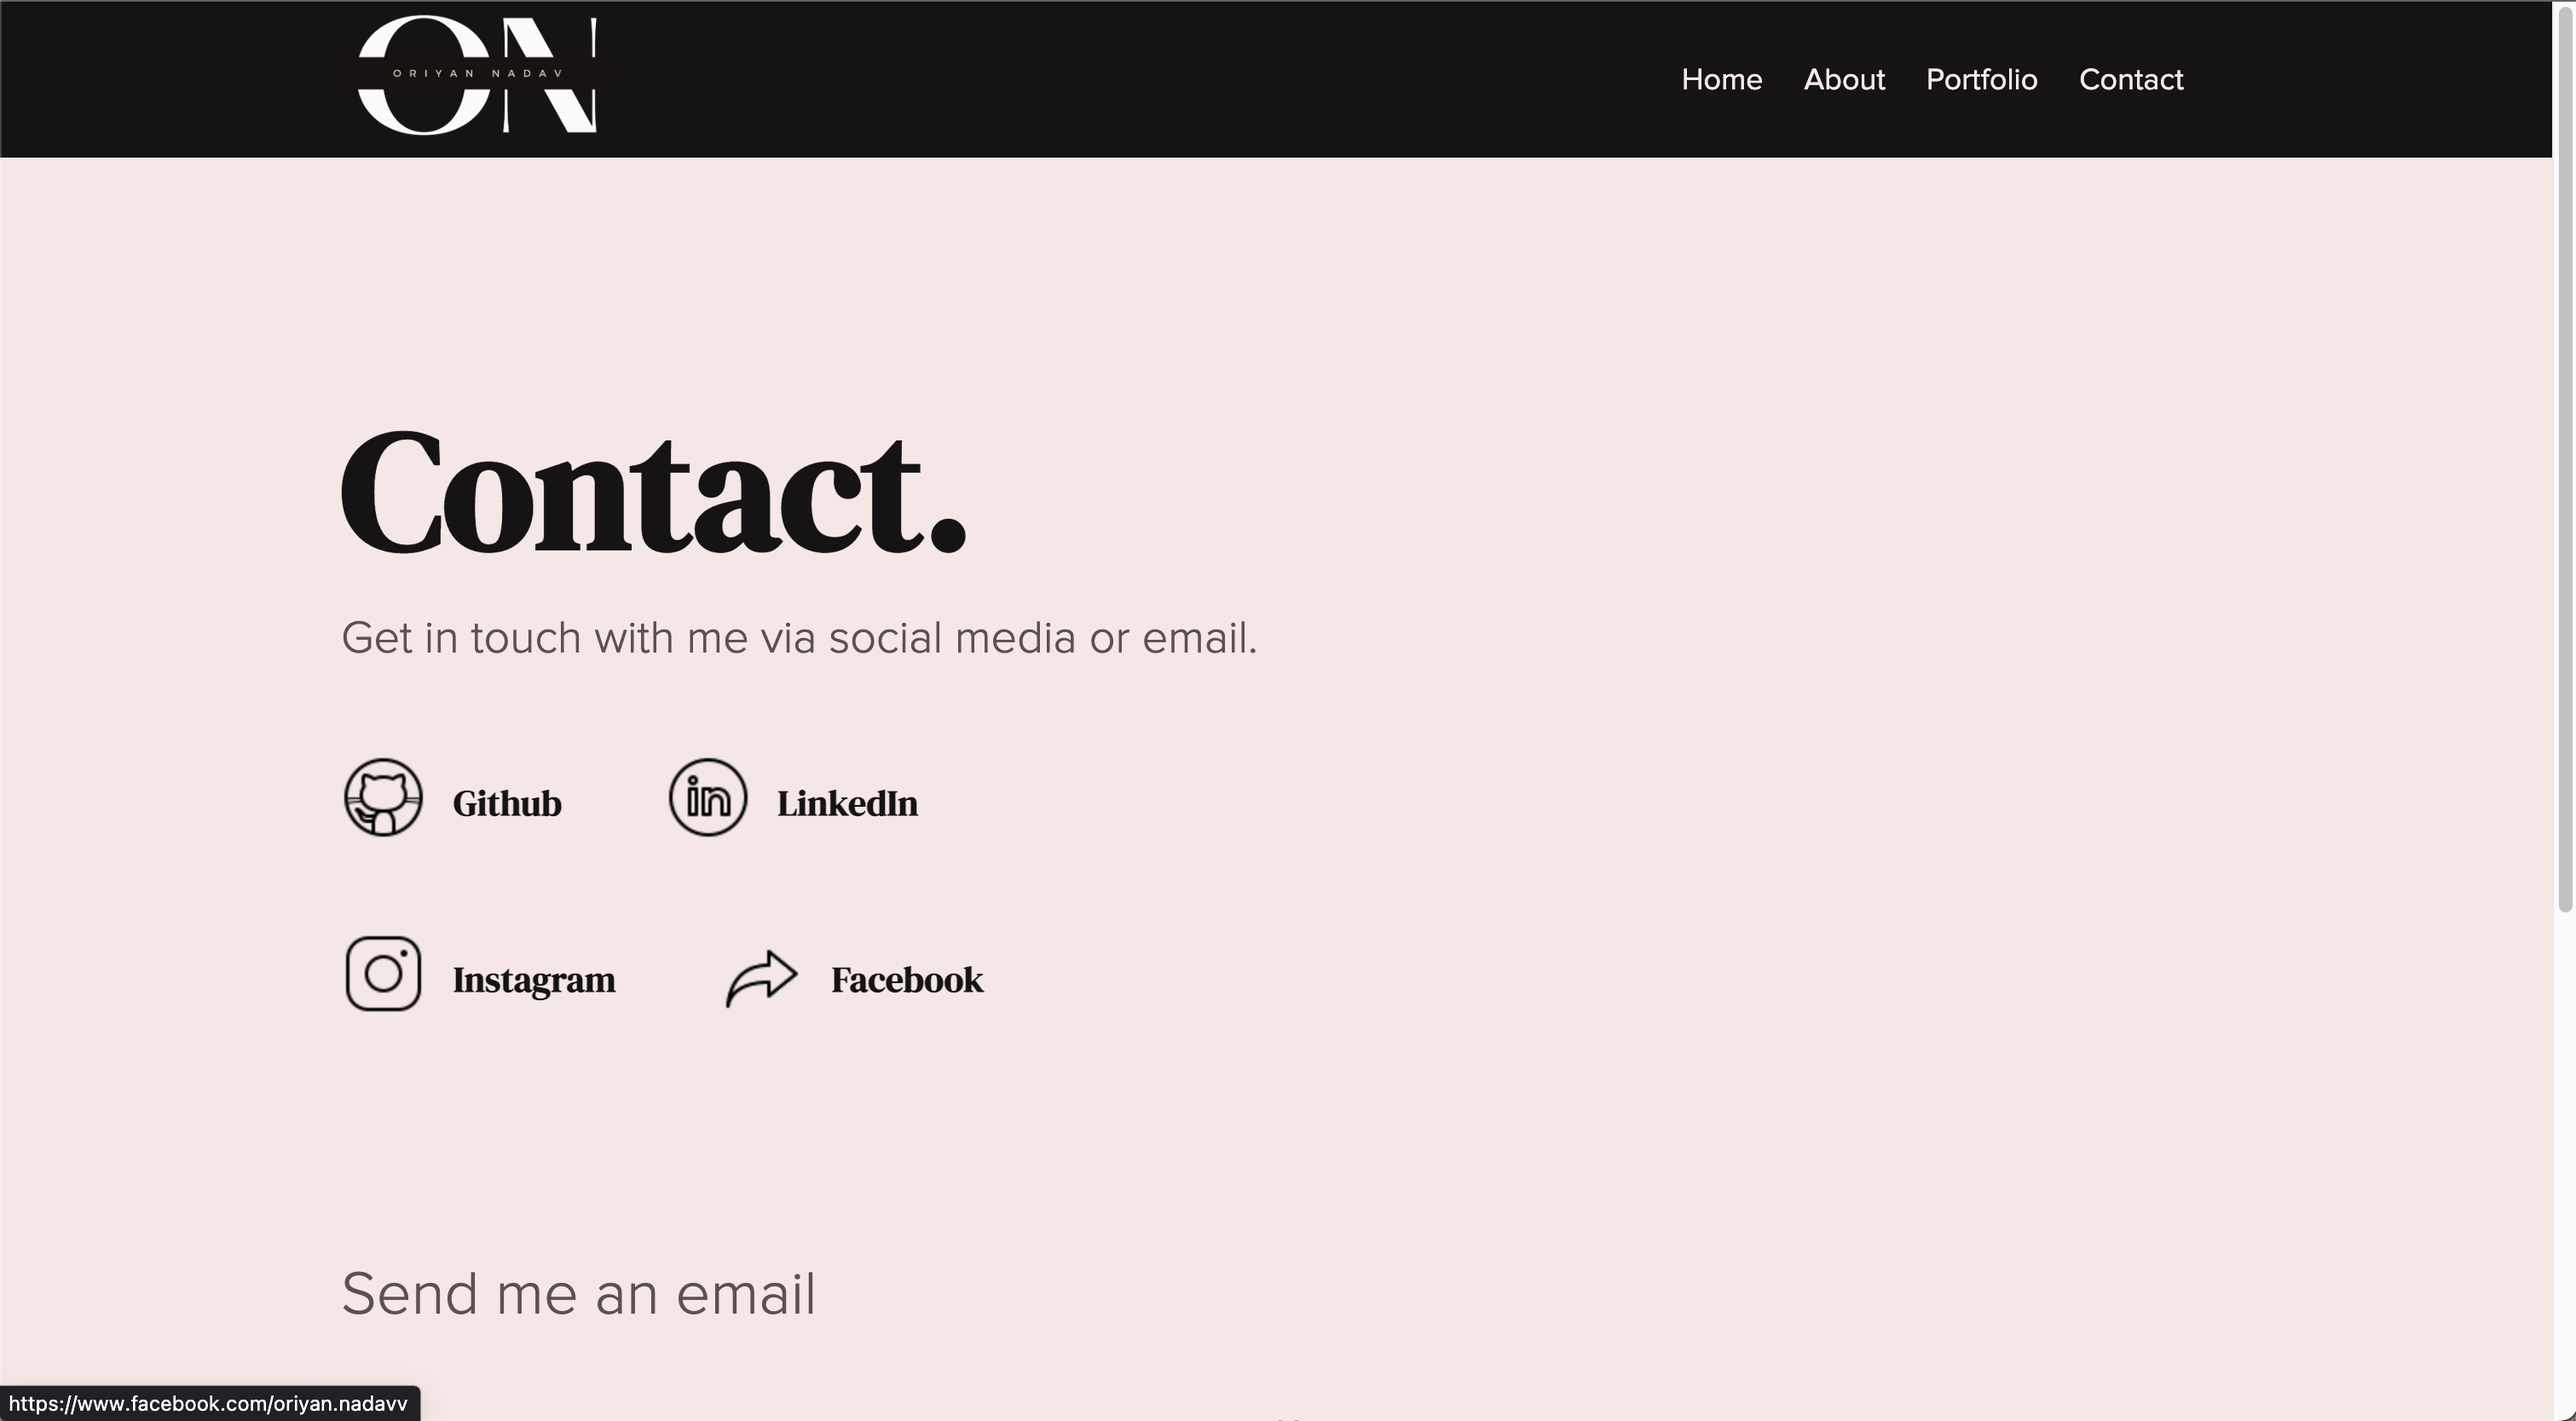
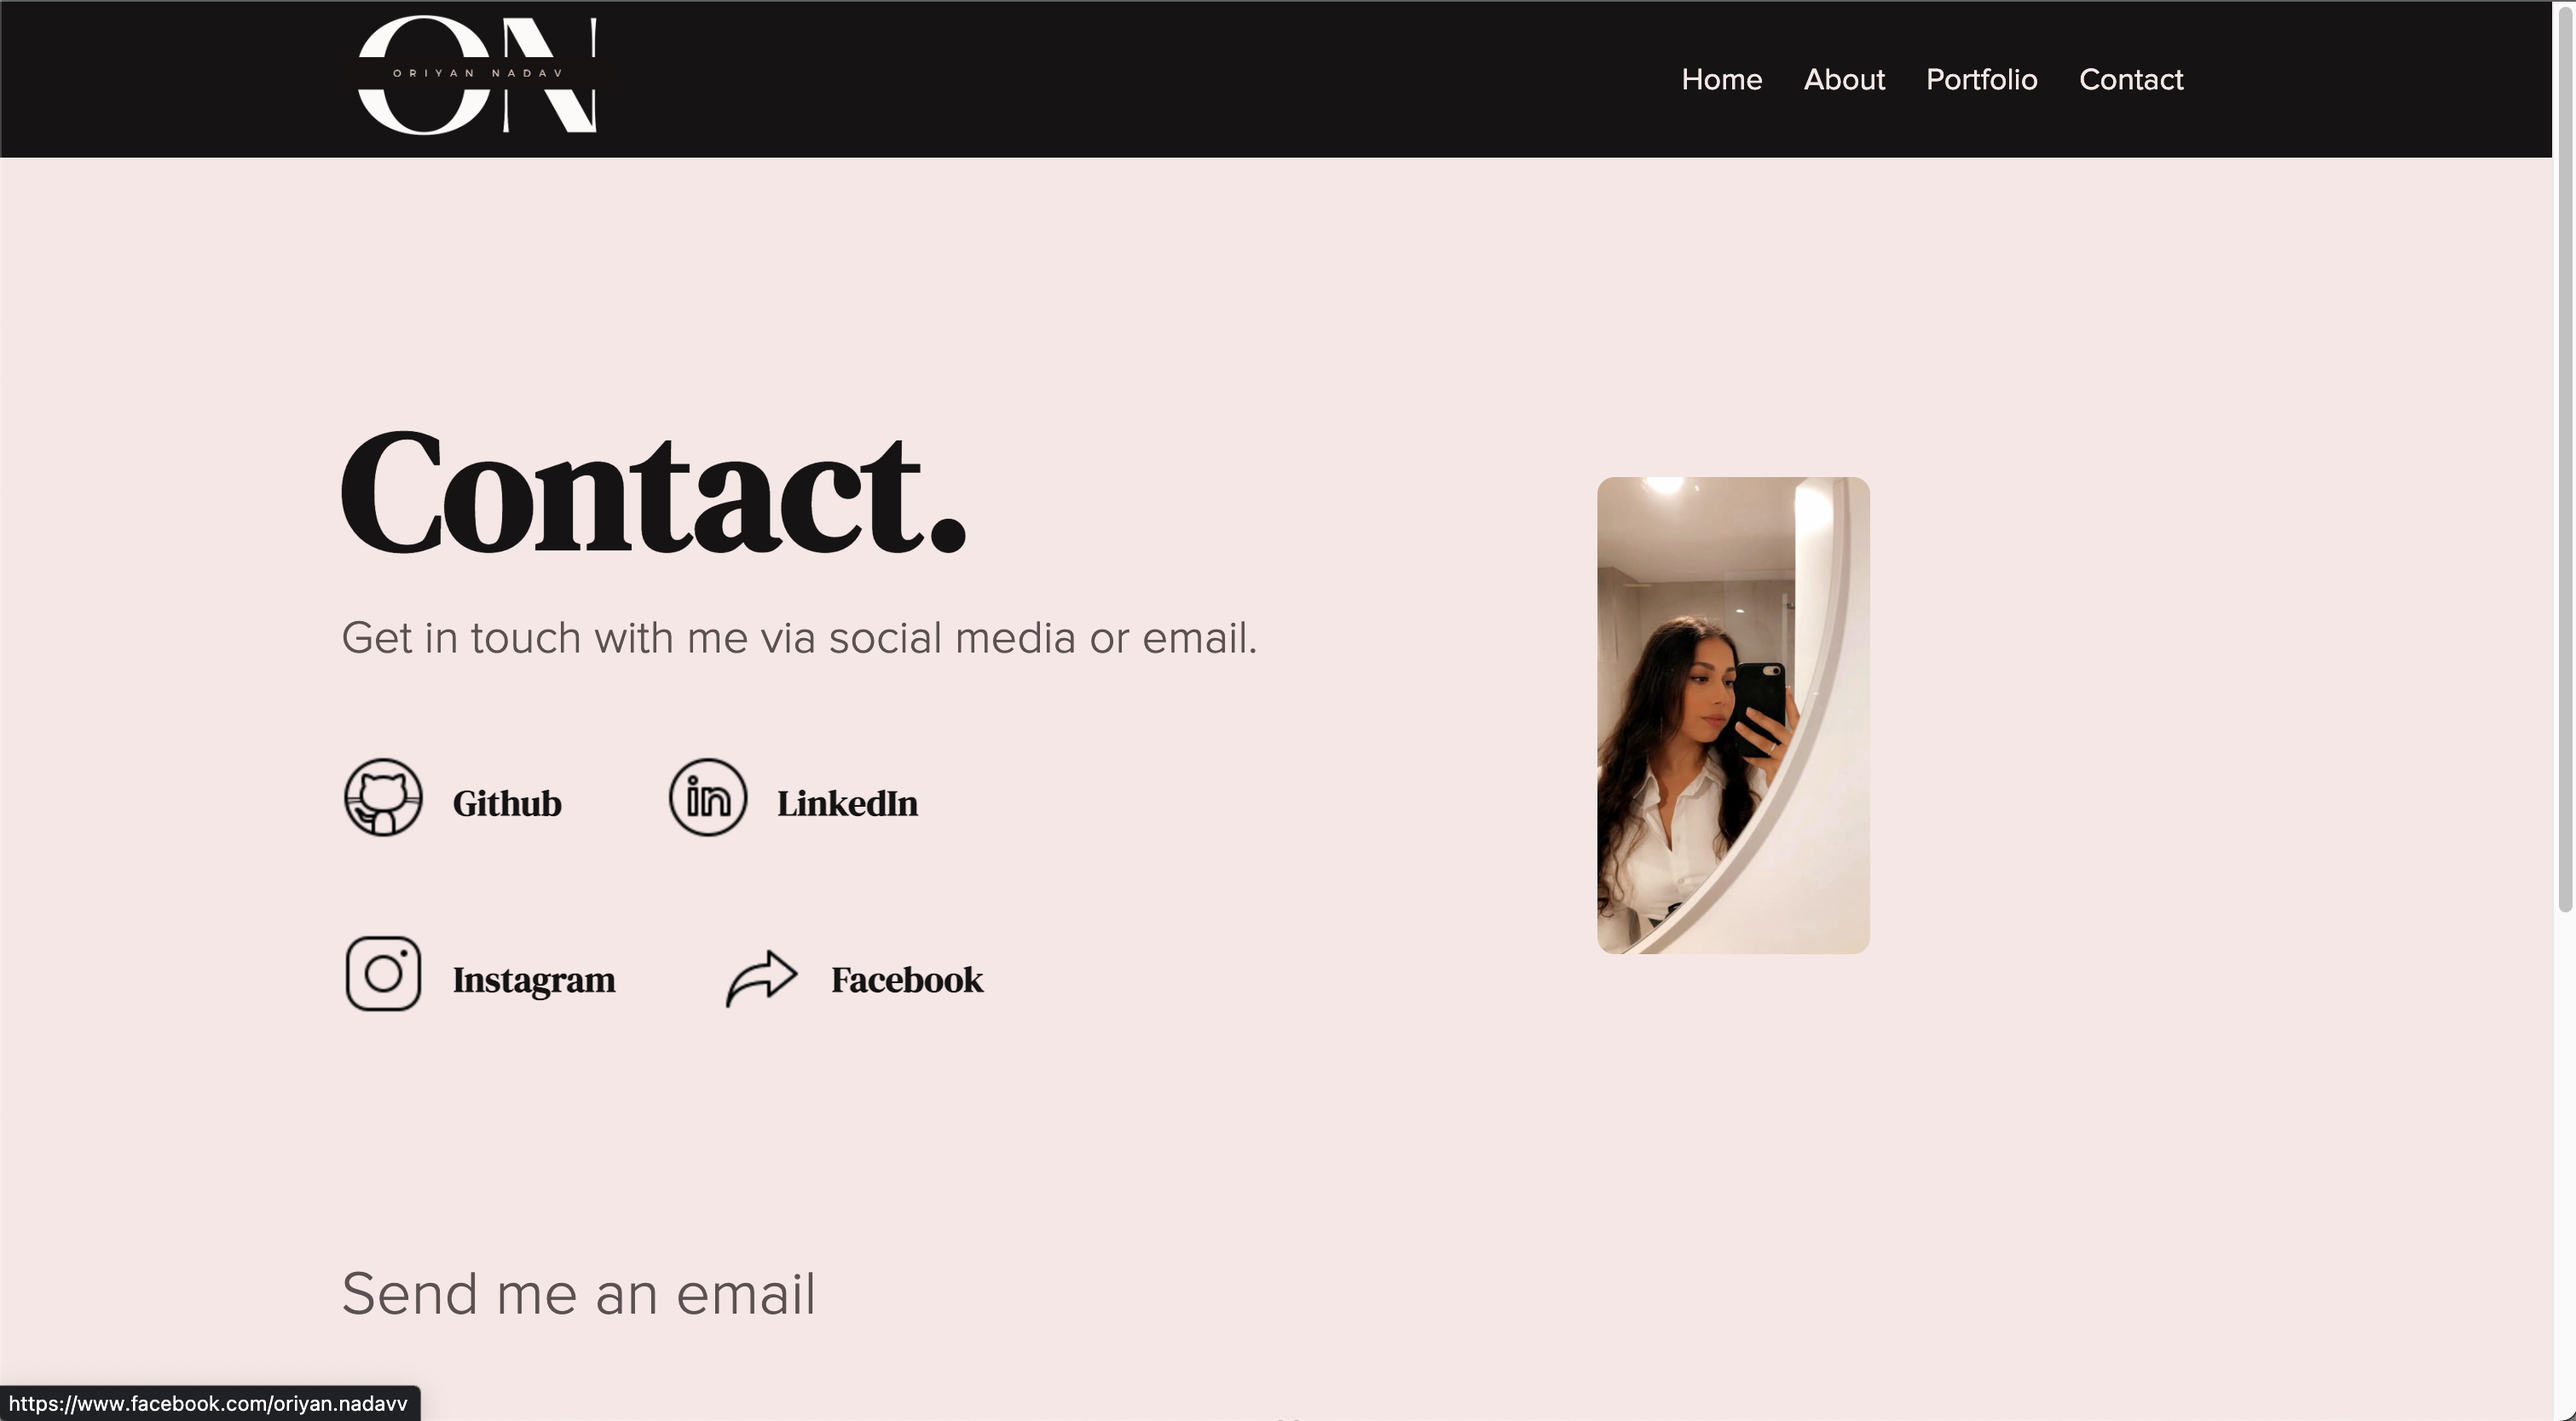
added a profile photo

Changed region(s): [[0.6221, 0.3118, 0.7465, 0.6859]]

diff --git a/css/style.css b/css/style.css
@@ -1072,12 +1072,9 @@ header button {
     margin: 0px 0px 24px;
 }
 
-#profile-pic{
-display: none;
-}
-
 #profile-pic {
-    display: none;
+    width: 0px;
+    height: 0px;
 }
 
 #contact-and-photo { 
@@ -1228,6 +1225,7 @@ display: none;
     #profile-pic{
         height: 280px;
         width: 160px;
+        border-radius: 10px;
     }
 
     #contact-and-photo{
@@ -1379,6 +1377,7 @@ display: none;
     #profile-pic{
         height: 280px;
         width: 160px;
+        border-radius: 10px;
     }
 
     #contact-and-photo{
@@ -1529,16 +1528,15 @@ display: none;
     #profile-pic{
         height: 280px;
         width: 160px;
+        border-radius: 10px;
+        margin-right: 200px;
     }
 
     #contact-and-photo{
         display: flex;
+        justify-content: space-between;
 		align-items: center;
 		width: 100%;
-    }
-
-    #contact-block, .profile-pic {
-        flex: 2;
     }
 
     .contact-section h3 {
